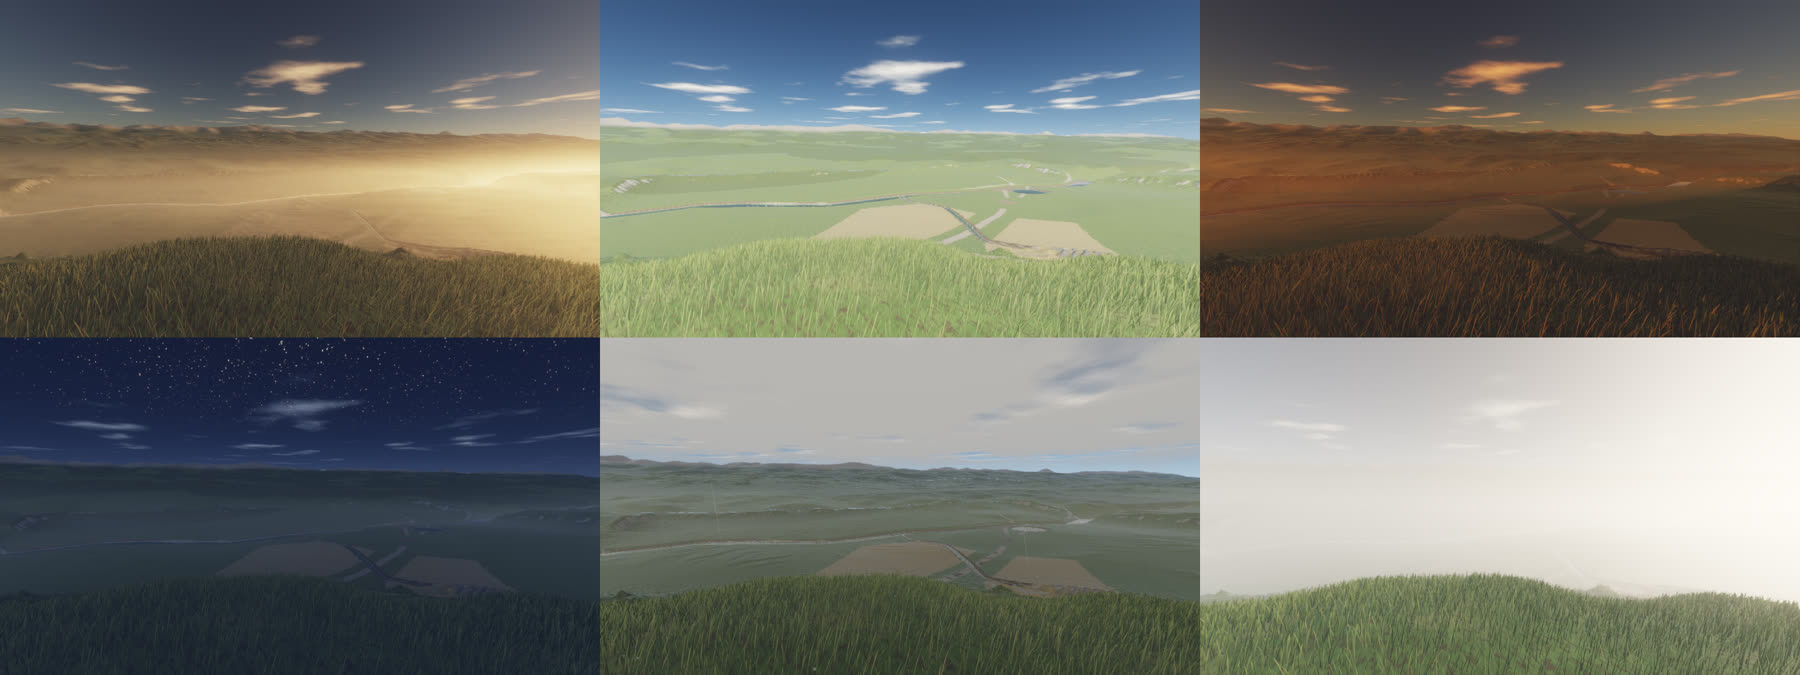
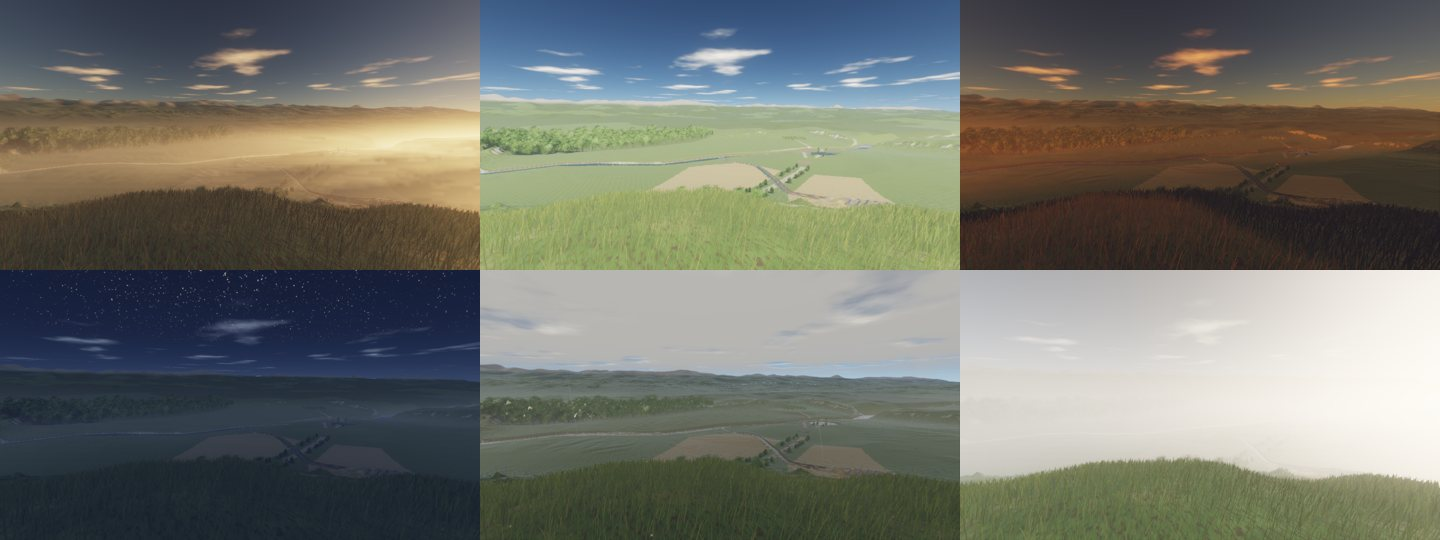
S02-T07b: grass about a pixel wide is shaded as the sward, and no longer flickers
Thin blades blend towards the sward's normal, shade, sky, and shadow,
keeping their tint and tip; the sward's ground glows against a low sun.
Every shimmer shot in captures/s02_weathers.ron passes (p99 0.0105 to
0.0147), with three new grazing pasture shots, and the barley's shots
moved into the field, out of the road's hedges. The field's mean colour
is within 1% of before. Evidence in docs/evidence/S02/grass_grazing.jpg.

Claude-Session: https://claude.ai/code/session_01729CUtx9ecYqazyoA1zXTK

diff --git a/docs/STATE.md b/docs/STATE.md
@@ -27,8 +27,8 @@
 **Done:** S02-T12: the governor, giving up six things in order a tenth at a time and logging each step into the performance report, and the Low, Medium (default), and High presets (`--preset`, console `preset`). Tests: the governor's own, and `crates/harness/tests/governor.rs`. Evidence: `docs/evidence/S02/governor.jpg`.
 **Done:** S02-T14: fog as weather; the valley at dawn, noon, dusk, night, rain, and fog; the shimmer check across the barley passing in clear air, dusk, rain, and fog; the glyph-off comparison passing in every one. Evidence: `docs/evidence/S02/weathers.jpg`, `captures/s02_weathers.ron`.
 **Done:** S02-T08c, trees drawn: the level chosen in culling from each tree's size on screen and crossfaded over the pixel's samples; leaf cards cut to their sprays over the samples, two-sided, their `^ A v` never mirrored, fading out edge on; the far form cut to its picture; trees casting from their third level with leaf-shaped shadows. Evidence: `docs/evidence/S02/trees.jpg`, `captures/s02_trees.ron` (glyph-off passes in every shot; the canopy's shimmer p99 0.0085). Test: `crates/harness/tests/trees.rs`.
-**Found, now S02-T07b:** the pasture grass shimmers when seen almost edge on (p99 0.034 looking east from x 160, z 120 at pitch 9, and 0.022 looking west with no trees in view); the trees in the same frame do not. The barley shots of S02-T14 did not catch it.
-**In progress:** S02-T07b, the grass's grazing shimmer. Plan: find whether the camera's move or the wind's sway makes it (probes with the clock stopped and with the eye still), then fix the blades where it is made, and add the grazing shots to `captures/s02_weathers.ron`. S02-T10b waits for the owner's eye on the wind that reads; S02-T13 (ambience) and S02-T15 (the performance run on the Mac) are the Shell lane's.
+**Done:** S02-T07b: grass about a pixel wide is shaded as the sward's average (its normal, shade, sky, and the sun's shadow partway up it), keeping its tint and tip, so that it no longer flickers; the ground under a sward glows against a low sun as its blades do. Every shimmer shot of `captures/s02_weathers.ron` passes, p99 0.0105 to 0.0147, including three new grazing pasture shots; the barley's shots were moved into the field, out of the road's hedges. Evidence: `docs/evidence/S02/grass_grazing.jpg`, `docs/evidence/S02/weathers.jpg`.
+**Next for Render:** nothing unblocked in S02. S02-T10b waits for the owner's eye on the wind that reads; S02-T13 (ambience) and S02-T15 (the performance run on the Mac) are the Shell lane's, and S02-T08d (the bark's age) the Content lane's.
 **Not yet:** rain does not know about roofs; it falls everywhere until there are buildings to stand under (S04, with a map of what is overhead). Rain falls only where there is terrain.
 
 ## Lane: Sim

diff --git a/docs/PLAYTEST_CHECKLIST.md b/docs/PLAYTEST_CHECKLIST.md
@@ -74,5 +74,6 @@ Added as each system is built.
 | The governor and the presets | S02-T12 | `perf-run.command` runs on Medium. In its report, the `[governor]` part says what was given up and when; nothing given up is best. In play, the console's `preset high` and `preset low` should change grass density with no stall |
 | Trees that look like trees | S02-T08c | Walk from the field into the east wood (about 160, 120, facing east) and through the Quiet Orchard (150, -178). Do the woods read as oak, ash, and hawthorn, and the orchard as apples? Watch a tree as you walk away from it: the change between levels should not be seen. Stand under an apple (F2 to fly up into it): its leaves are `^ A v`. Inside a crown, its twigs pass the eye as thin lines. Say what is off: shape, colour, density, the bark's seam up the trunk |
 | Trees inside their budget | S02-T08c | On Tithe Hill and in the east wood, read the `opaque`, `depth`, and `shadows` lines of the report with trees in view |
+| Grass seen low, and no shimmer in it | S02-T07b | Stand in the pasture east of the hill (about 160, 120) and look along the ground, at 10:00 and at dusk (`hour 17.8`), and walk slowly sideways. Nothing should crawl. Then compare the near grass with `docs/evidence/S02/grass_grazing.jpg`: the dark strokes between blades are softer than they were. Say if the field looks flatter than it should |
 | Fog, and no shimmer anywhere | S02-T14 | In the valley, console `fog 0.5`, then `fog 0`. Walk slowly past the barley at noon, at dusk (`hour 17.8`), in rain, and in fog: nothing should crawl or sparkle |
 | Dusk from the hill is a picture worth keeping | S02 exit gate | Stand on Tithe Hill at `hour 17.8` and look north over the barley. Yes or no |

diff --git a/docs/DECISIONS.md b/docs/DECISIONS.md
@@ -2,6 +2,26 @@
 
 Newest first. One entry for each choice that is not already made by the brief.
 
+## 2026-11-13: grass about a pixel wide is shaded as the sward (S02-T07b)
+
+**Prefiltered, not blurred.** Pasture seen almost edge on, and barley against a low sun,
+failed the shimmer check: a blade a pixel or two wide carried detail finer than the
+pixels (its root's shadow, its rounded and randomly turned face, a lit tip over a shaded
+root), and 4x MSAA turned it on and off as the eye moved. The brief allows no temporal
+accumulation, so the detail is filtered where it is made. A blade's `seen`, from 0 at
+about a pixel and a half wide to 1 at four, blends it towards the sward's average:
+the sward's normal (90%), the root's shadow at its mean, the sward's share of the sky
+(55% of the root's), and the sun's shadow taken partway up the sward (0.15 m in pasture,
+0.6 m in barley), where the ground under it takes it too. Each blade keeps its own tint
+and its paler tip. Against a low sun the ground under a sward glows as its blades do.
+Thin blades are darkened to 0.8 so the field keeps its brightness: the near pasture's
+mean colour is within 1% of what it was, and its contrast from pixel to pixel falls
+from 0.080 to 0.061. Evidence: `docs/evidence/S02/grass_grazing.jpg`.
+
+**The barley's shimmer shots moved into the field.** The road's hedges, placed in
+S02-T08b, stand where S02-T14 took them from (-60, 44); they are now taken from inside
+the barley at (-50, -20). Three grazing pasture shots were added to the exit captures.
+
 ## 2026-11-13: trees drawn (S02-T08c)
 
 **The level is chosen once, in culling.** Each tree's level comes from the share of the

diff --git a/phases/S02-the-ground.md b/phases/S02-the-ground.md
@@ -29,7 +29,7 @@ Do the tasks of one lane in order, following the task loop in `CLAUDE.md`. Lanes
 - [x] **S02-T05** [Content] Bake sky visibility for every surface, and use it for ambient light with contact occlusion at half resolution
 - [x] **S02-T06** [Render] Add GPU culling and instancing through one instance buffer, with the depth pyramid from the last frame
 - [x] **S02-T07** [Render] Add grass as instanced blades that sway and bend around a moving point, with each blade a line of characters up close
-- [ ] **S02-T07b** [Render] Grass seen almost edge on passes the shimmer check: the pasture east from x 160, z 120 at pitch 9, with and without the wood behind it (found in T08c)
+- [x] **S02-T07b** [Render] Grass seen almost edge on passes the shimmer check: the pasture east from x 160, z 120 at pitch 9, with and without the wood behind it (found in T08c)
 - [x] **S02-T08a** [Content] Generate tree meshes in the bake: trunks and branches in bark, leaf cards, three levels of detail and a far form, for a few kinds
 - [x] **S02-T08b** [Content] Place the woods, the orchard, and hedgerow trees in the valley as instances with permanent IDs
 - [x] **S02-T08c** [Render] Draw trees through the instance buffer, the level chosen in culling and crossfaded; leaf cards cut out, their leaves written as `^ A v` at arm's length (after T08a)
